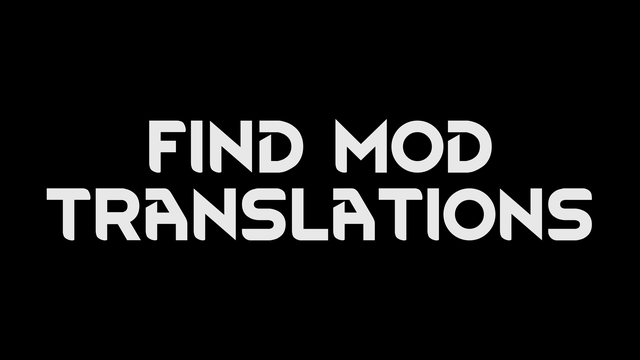
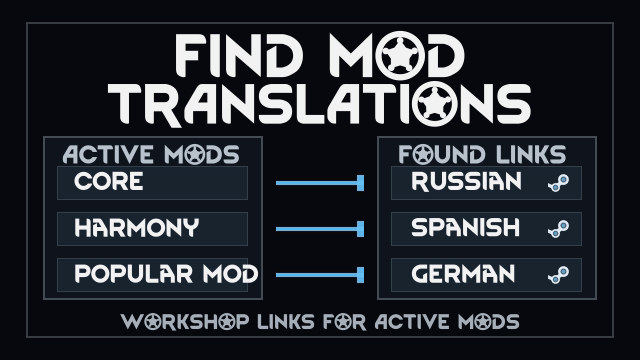
Add preview and adjust link warning dialog

diff --git a/Source/FindModTranslations/TranslationFinderWindow.cs b/Source/FindModTranslations/TranslationFinderWindow.cs
@@ -15,7 +15,7 @@ namespace FindModTranslations
     public class ConfirmOpenLinksDialog : Window
     {
         private readonly List<string> urls;
-        public override Vector2 InitialSize => new Vector2(520f, 150f);
+        public override Vector2 InitialSize => new Vector2(520f, 175f);
 
         public ConfirmOpenLinksDialog(List<string> urls)
         {
@@ -27,7 +27,7 @@ namespace FindModTranslations
         public override void DoWindowContents(Rect inRect)
         {
             Text.Font = GameFont.Small;
-            Widgets.Label(new Rect(inRect.x, inRect.y, inRect.width, 50f), "FMT_Window_OpenAllConfirm".Translate(urls.Count));
+            Widgets.Label(new Rect(inRect.x, inRect.y, inRect.width, inRect.height - 48f), "FMT_Window_OpenAllConfirm".Translate(urls.Count));
             float y = inRect.yMax - 38f;
             if (Widgets.ButtonText(new Rect(inRect.xMax - 250f, y, 115f, 34f), "FMT_Window_OpenAllConfirmYes".Translate()))
             {
